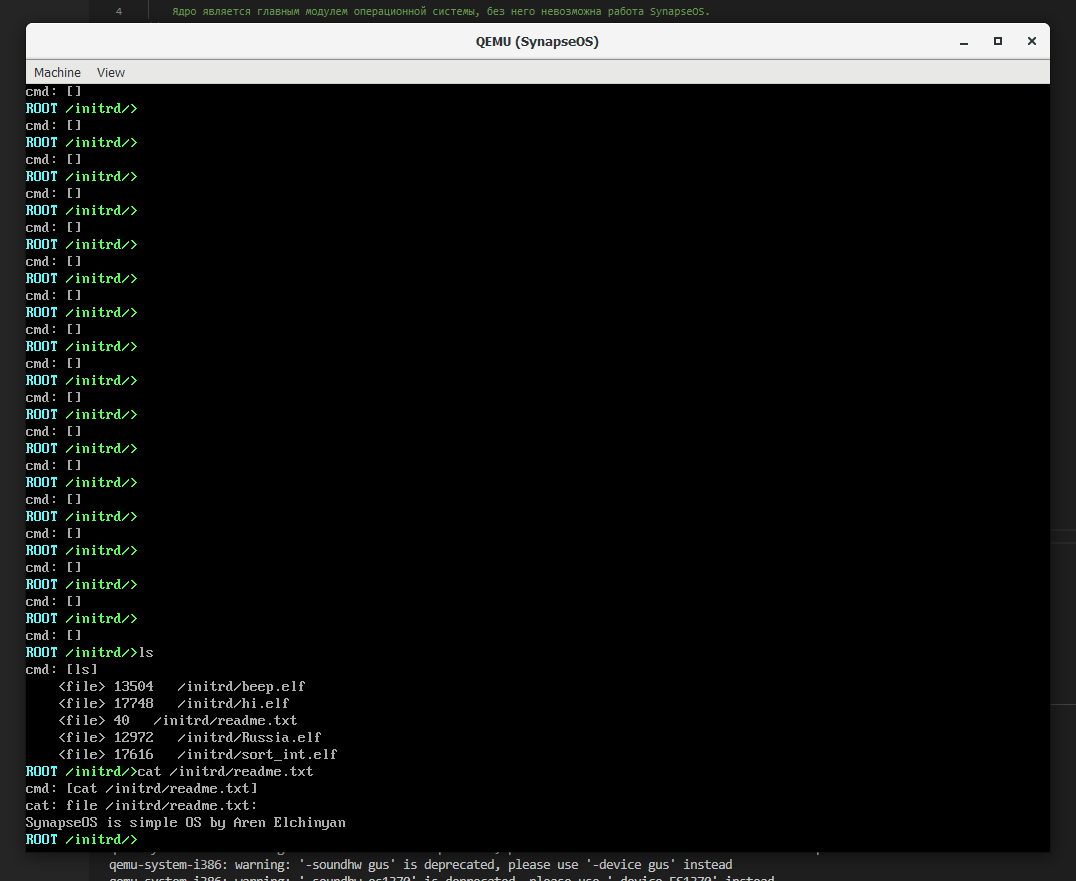
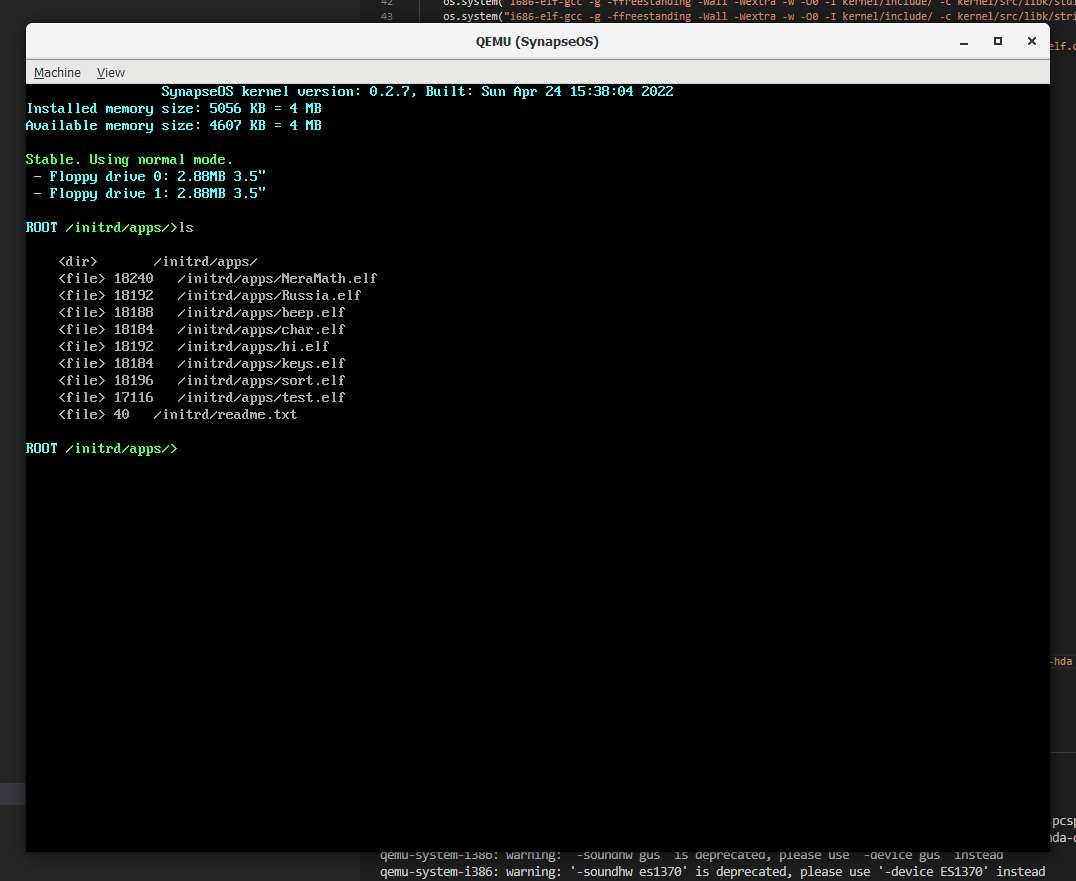
0.2.7

diff --git a/build.py b/build.py
@@ -83,6 +83,6 @@ if __name__ == "__main__":
         else:
             os.system("""wsl grub-mkrescue -o "SynapseOS.iso" isodir/ -V SynapseOS """)
 
-        os.system("qemu-system-i386 -m 1024 -name SynapseOS -soundhw all -cdrom SynapseOS.iso -fdb fdb.img -hda ata.qcow2 -serial  file:Qemu.log -no-reboot")
+        os.system("qemu-system-i386 -m 5 -name SynapseOS -soundhw all -cdrom SynapseOS.iso -fdb fdb.img -hda ata.qcow2 -serial  file:Qemu.log -no-reboot")
     except Exception as E:
         print(E)
